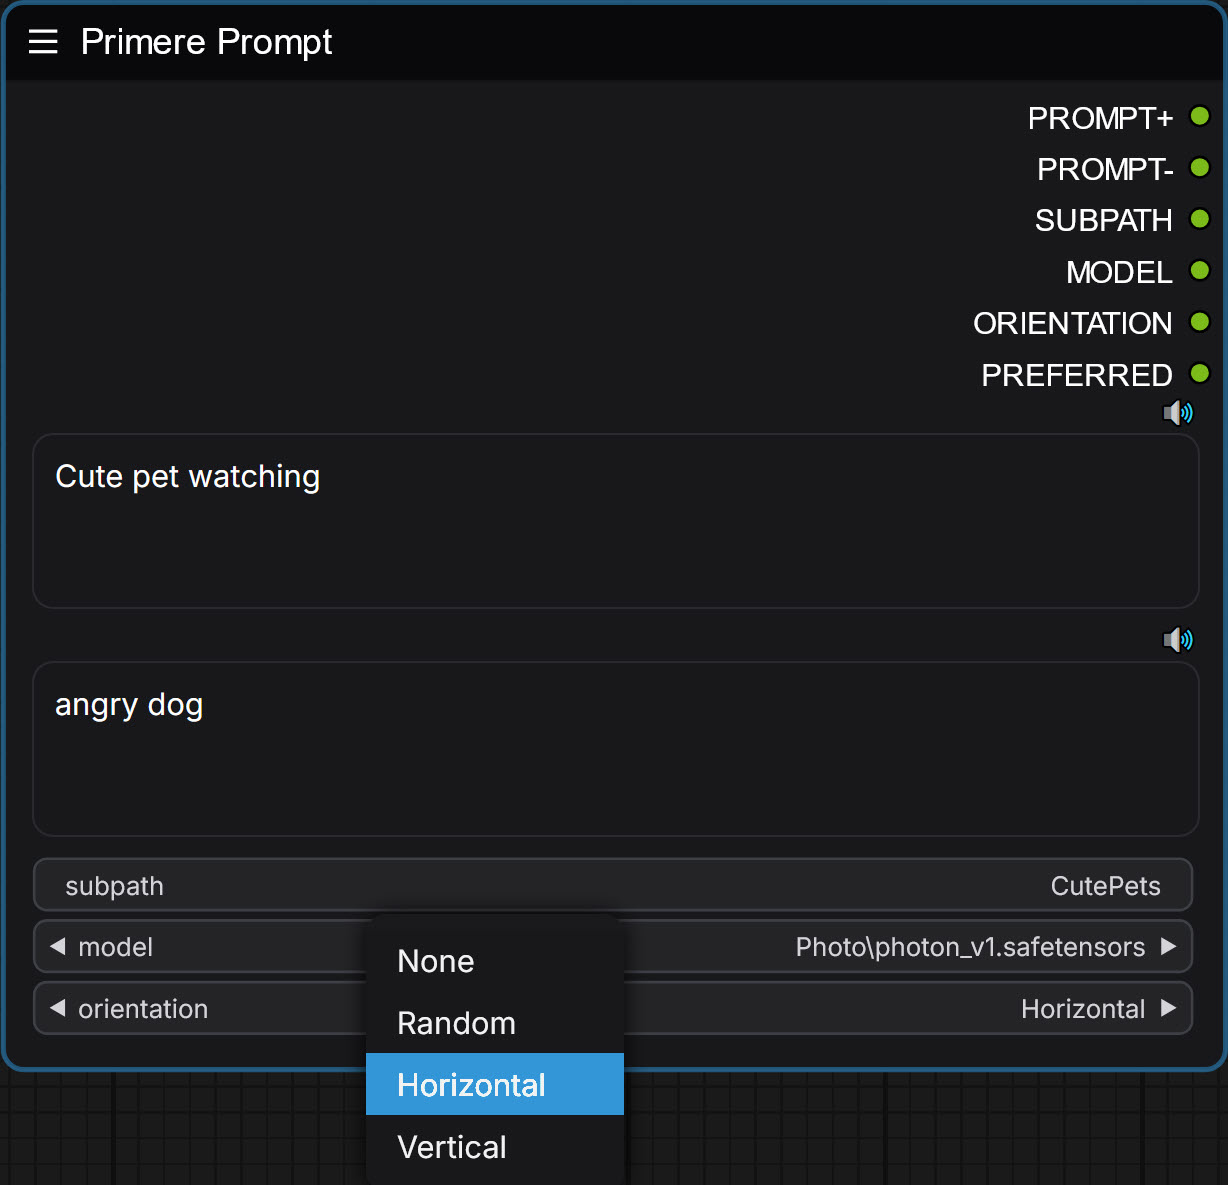
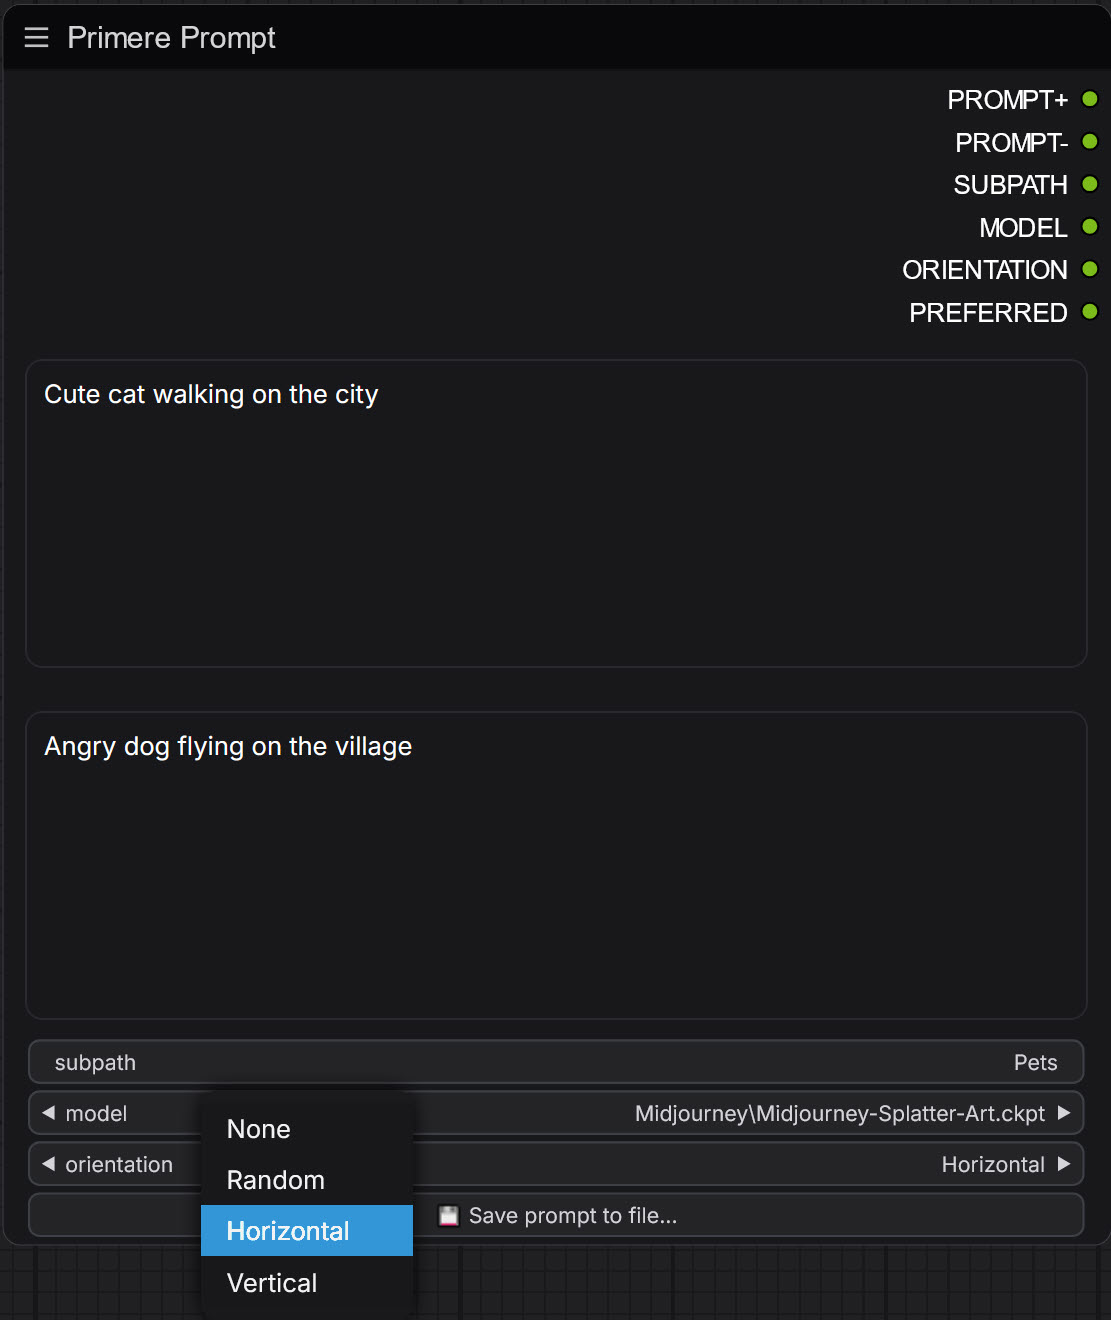
V 1.0.5 - Prompt saver readme

Changed region(s): [[0.0, 0.0, 1.0, 0.9992], [0.2448, 0.4059, 0.2754, 0.4371]]

diff --git a/Workflow/Manual/nodes/minimal_workflow.md b/Workflow/Manual/nodes/minimal_workflow.md
@@ -92,6 +92,18 @@ Choose how to handle image orientation:
 
 The orientation setting helps compose your image properly for your selected subject matter.
 
+### Save prompt to external file:
+With `Save prompt to file...` button you can save your current prompt to external CSV file, what the `Visual Style Selector` and `Visual Prompt CSV` nodes will read by name. 
+Read the manual of **Visual Prompts (style) Selector** and **Visual Prompts - auto organized** nodes later.
+- To the prompt saver dialog you can enter or choose name for prompt. If you choose existing prompt name from the `Prompt name` list, the original prompt with same name will be overwritten
+- You can select existing or crete new category what will be use as folder name for generated image
+- You can edit both positive and nagetive prompt, but positive prompt required
+- The `Preferred model` and `Preferred orientation` are read only. These date must be set on the prompt input node.
+- Cancel or finish prompt save by buttons
+- Make backup from your previous `styles.csv` file on the `custom_nodes\ComfyUI_Primere_Nodes\stylecsv\` folder before use prompt saver
+
+<img src="primere_prompt_save.jpg" width="450px">
+
 [This video contains tutorial for prompt engineering](https://www.youtube.com/watch?v=joqvC8vb6Xo)
 
 <hr>
